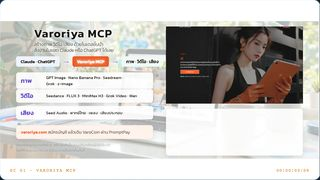
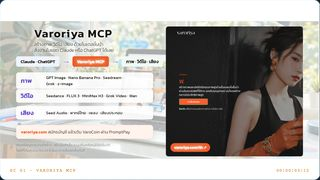
Varoriya page 1: empty box removed; Varo website shot fills the right side and links to varoriya.com/th
Claude-Session: https://claude.ai/code/session_01B1v9jyRD8MFjcV6ktsYkvy

Changed region(s): [[0.4688, 0.1389, 0.9688, 0.8889], [0.5312, 0.1389, 0.625, 0.1944], [0.4062, 0.3611, 0.4688, 0.4167]]

diff --git a/cover/creative/menu.html b/cover/creative/menu.html
@@ -2663,7 +2663,7 @@ document.addEventListener("click", e => {
   v.dataset.src = b.dataset.src; v.src = b.dataset.src; v.poster = b.dataset.poster; v.play().catch(() => {});
   const t = st.querySelector(".vr-ptitle"); if (t) t.textContent = b.dataset.title;
 });
-</script><img class="c a fi" src="assets/varoriya/_source/img/varo-logo.png" style="left:5cqw;top:8.2cqw;width:4.6cqw;animation-delay:.6s" alt=""><div class="c vr-h a bi" style="left:10.6cqw;top:8.4cqw;font-size:3.6cqw;animation-delay:.8s"><b>Varoriya MCP</b></div><div class="c vr-sub a fi" style="left:10.6cqw;top:12.9cqw;line-height:1.3;animation-delay:1.2s">สร้างภาพ วิดีโอ เสียง ด้วยโมเดลชั้นนำ<br>สั่งงานในแชต Claude หรือ ChatGPT ได้เลย</div><div class="c a fu" style="left:5cqw;top:17.6cqw;display:flex;align-items:center;gap:1.2cqw;animation-delay:1.5s"><span class="rel vr-chip" style="background:#eef3ff;padding:.6cqw 1.4cqw;border-radius:.6cqw;font:600 1.4cqw Kanit">Claude · ChatGPT</span><span class="rel" style="color:#5b3fc4;font-size:1.6cqw">&rarr;</span><span class="rel" style="background:#ee5a24;color:#fff;padding:.6cqw 1.4cqw;border-radius:.6cqw;font:600 1.4cqw Kanit">Varoriya MCP</span><span class="rel" style="color:#5b3fc4;font-size:1.6cqw">&rarr;</span><span class="rel" style="background:#effaf3;padding:.6cqw 1.4cqw;border-radius:.6cqw;font:600 1.4cqw Kanit">ภาพ · วิดีโอ · เสียง</span></div><div class="vr-row" style="left:5cqw;right:52cqw;top:22.6cqw;grid-template-columns:8cqw 1fr;animation-delay:1.9s"><span style="font:600 1.9cqw Kanit;color:#5b3fc4">ภาพ</span><span style="font:400 1.3cqw Kanit">GPT Image · Nano Banana Pro · Seedream ·<br>Grok · z-image</span></div><div class="vr-row" style="left:5cqw;right:52cqw;top:27.9cqw;grid-template-columns:8cqw 1fr;animation-delay:2.2s"><span style="font:600 1.9cqw Kanit;color:#5b3fc4">วิดีโอ</span><span style="font:400 1.3cqw Kanit">Seedance · FLUX 3 · MiniMax H3 · Grok Video · Wan</span></div><div class="vr-row" style="left:5cqw;right:52cqw;top:33.2cqw;grid-template-columns:8cqw 1fr;animation-delay:2.5s"><span style="font:600 1.9cqw Kanit;color:#5b3fc4">เสียง</span><span style="font:400 1.3cqw Kanit">Seed Audio · พากย์ไทย · เพลง · เสียงประกอบ</span></div><a class="c vr-link" href="https://varoriya.com/" target="_blank" rel="noopener" style="left:5cqw;top:39.1cqw;width:43cqw"><div class="vr-card a fu" style="position:relative;background:#fff3ec;animation-delay:2.9s"><p style="font-size:1.35cqw"><b style="color:#ee5a24;font-weight:600">varoriya.com</b> สมัครบัญชี แล้วเติม VaroCoin ผ่าน PromptPay</p></div></a><div class="c a fi" style="left:5cqw;top:44.6cqw;width:44cqw;font:300 1.1cqw/1.6 Kanit;color:#4a453d;animation-delay:3.2s">หักเหรียญตามงานที่สร้าง · สร้างไม่สำเร็จ ระบบคืนเหรียญให้อัตโนมัติ<br>ไฟล์ที่ได้อยู่ประมาณ 24 ชั่วโมง ดาวน์โหลดเก็บทันที</div><div class="c frame a rv" style="left:52cqw;top:8.2cqw;width:43cqw;height:24.2cqw;background-image:var(--vr_varo_home);animation-delay:1.4s"></div><div class="c vr-card a fu" style="left:52cqw;top:34cqw;width:43cqw;height:14.8cqw;animation-delay:2.4s"></div>
+</script><img class="c a fi" src="assets/varoriya/_source/img/varo-logo.png" style="left:5cqw;top:8.2cqw;width:4.6cqw;animation-delay:.6s" alt=""><div class="c vr-h a bi" style="left:10.6cqw;top:8.4cqw;font-size:3.6cqw;animation-delay:.8s"><b>Varoriya MCP</b></div><div class="c vr-sub a fi" style="left:10.6cqw;top:12.9cqw;line-height:1.3;animation-delay:1.2s">สร้างภาพ วิดีโอ เสียง ด้วยโมเดลชั้นนำ<br>สั่งงานในแชต Claude หรือ ChatGPT ได้เลย</div><div class="c a fu" style="left:5cqw;top:17.6cqw;display:flex;align-items:center;gap:1.2cqw;animation-delay:1.5s"><span class="rel vr-chip" style="background:#eef3ff;padding:.6cqw 1.4cqw;border-radius:.6cqw;font:600 1.4cqw Kanit">Claude · ChatGPT</span><span class="rel" style="color:#5b3fc4;font-size:1.6cqw">&rarr;</span><span class="rel" style="background:#ee5a24;color:#fff;padding:.6cqw 1.4cqw;border-radius:.6cqw;font:600 1.4cqw Kanit">Varoriya MCP</span><span class="rel" style="color:#5b3fc4;font-size:1.6cqw">&rarr;</span><span class="rel" style="background:#effaf3;padding:.6cqw 1.4cqw;border-radius:.6cqw;font:600 1.4cqw Kanit">ภาพ · วิดีโอ · เสียง</span></div><div class="vr-row" style="left:5cqw;right:52cqw;top:22.6cqw;grid-template-columns:8cqw 1fr;animation-delay:1.9s"><span style="font:600 1.9cqw Kanit;color:#5b3fc4">ภาพ</span><span style="font:400 1.3cqw Kanit">GPT Image · Nano Banana Pro · Seedream ·<br>Grok · z-image</span></div><div class="vr-row" style="left:5cqw;right:52cqw;top:27.9cqw;grid-template-columns:8cqw 1fr;animation-delay:2.2s"><span style="font:600 1.9cqw Kanit;color:#5b3fc4">วิดีโอ</span><span style="font:400 1.3cqw Kanit">Seedance · FLUX 3 · MiniMax H3 · Grok Video · Wan</span></div><div class="vr-row" style="left:5cqw;right:52cqw;top:33.2cqw;grid-template-columns:8cqw 1fr;animation-delay:2.5s"><span style="font:600 1.9cqw Kanit;color:#5b3fc4">เสียง</span><span style="font:400 1.3cqw Kanit">Seed Audio · พากย์ไทย · เพลง · เสียงประกอบ</span></div><a class="c vr-link" href="https://varoriya.com/th/" target="_blank" rel="noopener" style="left:5cqw;top:39.1cqw;width:43cqw"><div class="vr-card a fu" style="position:relative;background:#fff3ec;animation-delay:2.9s"><p style="font-size:1.35cqw"><b style="color:#ee5a24;font-weight:600">varoriya.com</b> สมัครบัญชี แล้วเติม VaroCoin ผ่าน PromptPay</p></div></a><div class="c a fi" style="left:5cqw;top:44.6cqw;width:44cqw;font:300 1.1cqw/1.6 Kanit;color:#4a453d;animation-delay:3.2s">หักเหรียญตามงานที่สร้าง · สร้างไม่สำเร็จ ระบบคืนเหรียญให้อัตโนมัติ<br>ไฟล์ที่ได้อยู่ประมาณ 24 ชั่วโมง ดาวน์โหลดเก็บทันที</div><a class="c a rv" href="https://varoriya.com/th/" target="_blank" rel="noopener" aria-label="เปิดเว็บ Varoriya" style="left:52cqw;top:8.2cqw;width:43cqw;height:40.8cqw;display:block;border-radius:.8cqw;overflow:hidden;box-shadow:0 .8cqw 2.4cqw rgba(0,0,0,.25);animation-delay:1.4s"><span class="frame" style="position:absolute;inset:0;border:0;background-image:var(--vr_varo_home);background-size:cover;background-position:12% center"></span><span style="position:absolute;left:1.4cqw;bottom:1.4cqw;padding:.5cqw 1.2cqw;border-radius:2cqw;background:#ee5a24;color:#fff;font:600 1.2cqw Kanit">varoriya.com/th &#8599;</span></a>
 <div class="grain"></div><div class="bar t"></div><div class="bar b"></div><div class="sc">SC 01 · VARORIYA MCP</div><div class="tc" data-clock>00:00:00:00</div></div></section>
 <section class="demo" data-lesson="varoriya"><header><span class="num">02</span><h2>ทำรูป · เลือกโมเดลภาพ</h2><button class="replay">เล่นใหม่</button></header><div class="stage"></div><style>
 [data-lesson="varoriya"] .vrm-a { position: relative; display: block; flex: none; overflow: hidden; border-radius: .4cqw; border: .1cqw solid #c9bff0; box-shadow: 0 .2cqw .6cqw rgba(40,30,10,.18); background: #222; cursor: zoom-in; transition: transform .15s, box-shadow .15s; }
